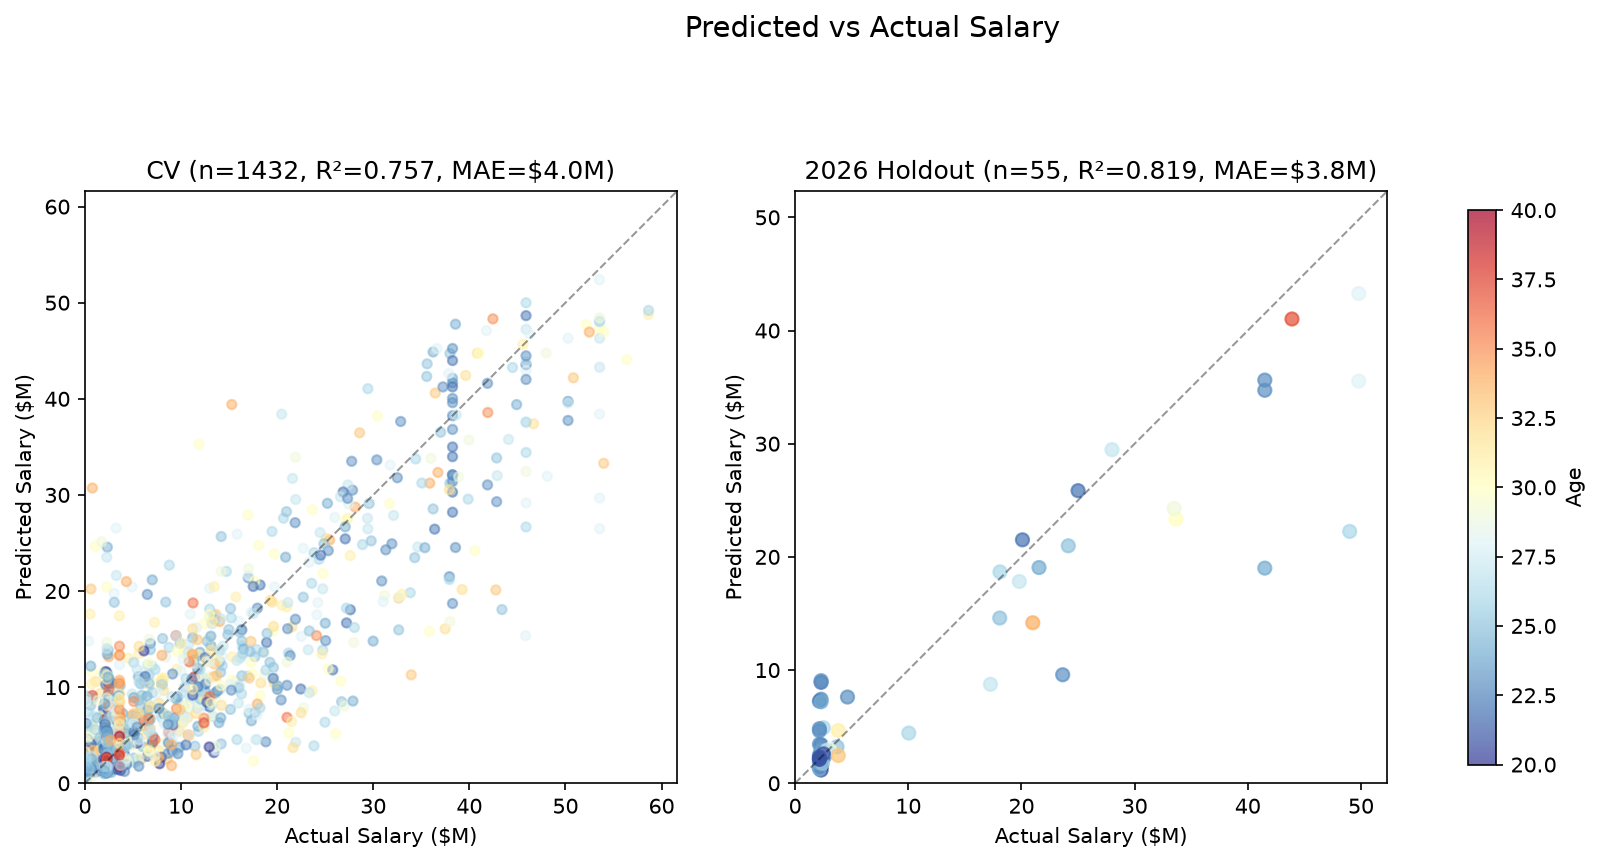
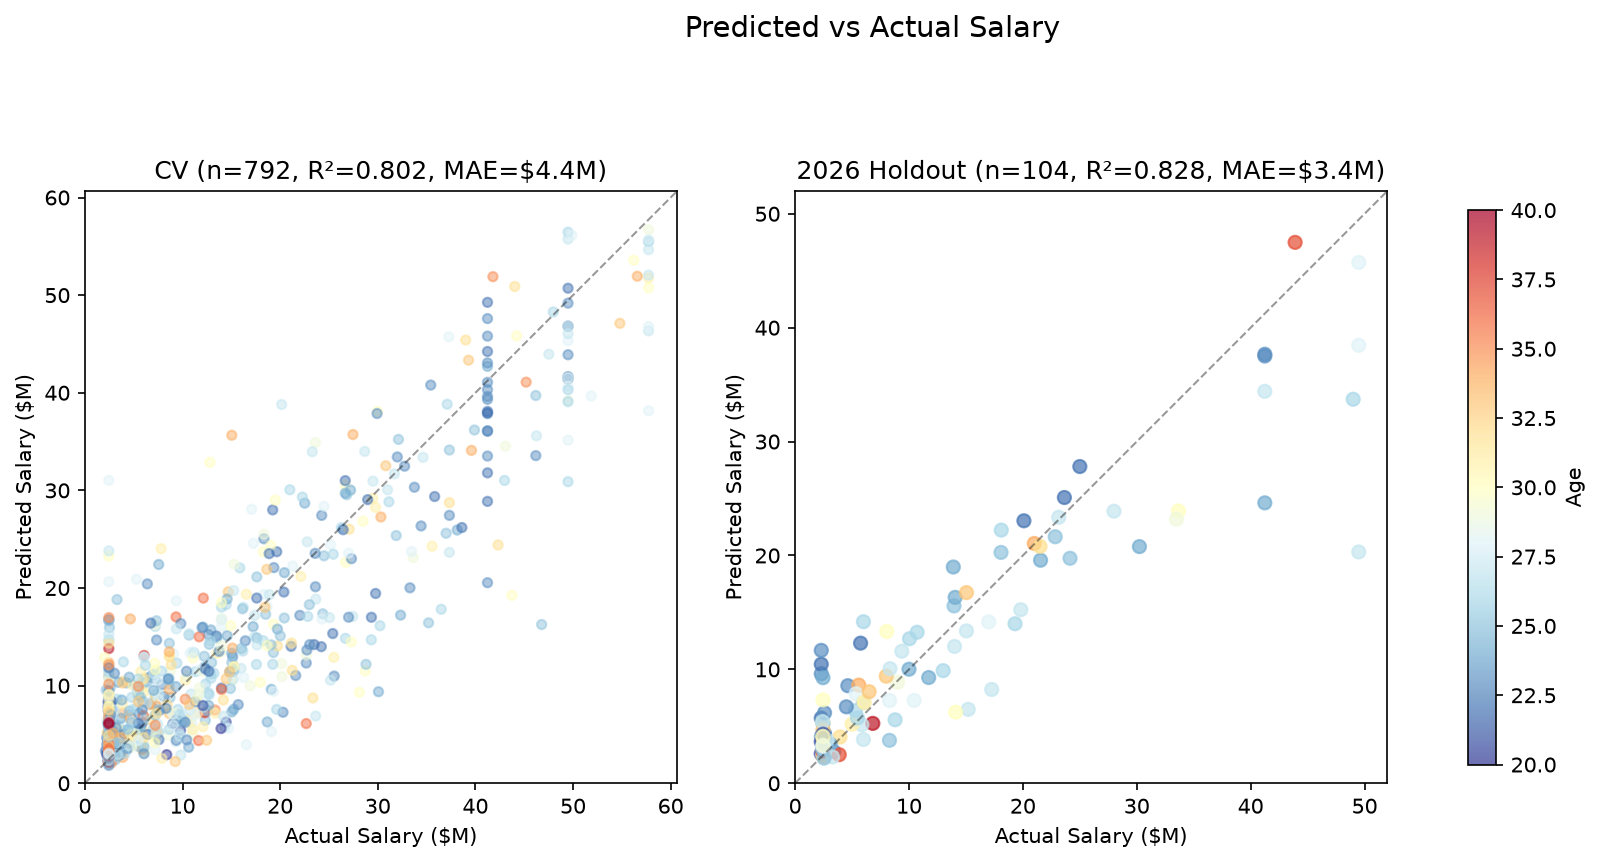
#20 zone-gate helpers + #36 Luol Deng stretched dead money
evaluate_suite: add abs_bias_growth() and zone_scorecard() shared helpers
  - abs_bias_growth uses |bias| form so shrinking toward zero is never a regression
  - zone_scorecard splits by confirmation/selection with abs_bias_growth metric

diagnostics: signing-type residuals now report both pooled and selection-only

eval_floor_branch: replace local zone_scorecard/abs_bias_growth with shared imports

salary_corrections: 4th stretched dead money case (Luol Deng 2019, LAL stretch
  while playing for MIN, salary_override to vet minimum $2,564,753)

ISSUES #36: updated from three to four rows, documented build_dataset.py gap

diff --git a/scripts/diagnostics.py b/scripts/diagnostics.py
@@ -24,6 +24,9 @@ from src.model.train import (
     _filter_mislabeled_year1, _filter_continuations, _filter_rookie_contracts,
     FEATURE_COLS, TARGET,
 )
+# NOTE: evaluate_suite imports attach_signing_labels from this module, so any
+# import from evaluate_suite must be deferred to avoid a circular import.
+# _in_confirmation_set is imported inside main() below.
 
 DIAG_DIR = OUTPUTS_DIR / "diagnostics"
 DIAG_DIR.mkdir(parents=True, exist_ok=True)
@@ -303,8 +306,12 @@ def _load_signing_type_labels(df):
     return attach_signing_labels(df, salary_dollars=sal)
 
 
-def residual_by_signing_type(df, y_true, y_pred):
-    """Slice residuals by Spotrac signing type (diagnostic label, not feature)."""
+def residual_by_signing_type(df, y_true, y_pred, is_confirmation=None):
+    """Slice residuals by Spotrac signing type (diagnostic label, not feature).
+
+    When is_confirmation is provided, prints both pooled (all rows, reporting)
+    and selection-only (decision-grade) readings -- ISSUES #20a.
+    """
     if "signing_cat" not in df.columns:
         print("\nNo signing_cat in data, skipping signing type residuals.")
         return
@@ -318,37 +325,48 @@ def residual_by_signing_type(df, y_true, y_pred):
 
     order = ["Bird Rights", "Sign & Trade", "Cap Space", "Early Bird",
              "MLE", "Non-Bird", "Minimum", "Rookie Scale", "Other", "Unknown"]
-    rows = []
-    for cat in order:
-        sub = df[df["signing_cat"] == cat]
-        if len(sub) < 3:
-            continue
-        bias = sub["residual"].mean()
-        mae = sub["residual"].abs().mean()
-        bias_d = sub["residual_dollar"].mean()
-        mae_d = sub["residual_dollar"].abs().mean()
-        rows.append({
-            "signing_type": cat,
-            "n": len(sub),
-            "mean_cap_pct": round(sub["actual"].mean(), 4),
-            "mean_pred": round(sub["pred"].mean(), 4),
-            "bias_pct": round(bias, 4),
-            "bias_$M": round(bias_d / 1e6, 2),
-            "MAE_pct": round(mae, 4),
-            "MAE_$M": round(mae_d / 1e6, 2),
-        })
 
-    result = pd.DataFrame(rows)
-    path = DIAG_DIR / "residual_by_signing_type.csv"
-    result.to_csv(path, index=False)
+    # ISSUES #20a: report both pooled (all rows) and selection-only readings.
+    # The selection-only numbers are decision-grade; the pooled ones are context.
+    splits = [("all", "reporting", None)]
+    if is_confirmation is not None:
+        sel_mask = ~np.asarray(is_confirmation, dtype=bool)
+        splits.append(("selection", "decision-grade", sel_mask))
 
-    print(f"\n=== Residual by Signing Type (OOF) ===")
-    print(f"{'Type':15s} {'N':>4s} {'Avg%':>7s} {'Pred%':>7s} {'Bias':>7s} {'Bias$M':>7s} {'MAE%':>7s} {'MAE$M':>7s}")
-    print("-" * 70)
-    for _, r in result.iterrows():
-        print(f"{r['signing_type']:15s} {r['n']:4d} {r['mean_cap_pct']:7.4f} {r['mean_pred']:7.4f} "
-              f"{r['bias_pct']:+7.4f} {r['bias_$M']:+7.1f} {r['MAE_pct']:7.4f} {r['MAE_$M']:7.1f}")
-    print(f"\nSaved: {path.name}")
+    for tag, label, mask in splits:
+        sub_df = df[mask] if mask is not None else df
+        rows = []
+        for cat in order:
+            sub = sub_df[sub_df["signing_cat"] == cat]
+            if len(sub) < 3:
+                continue
+            bias = sub["residual"].mean()
+            mae = sub["residual"].abs().mean()
+            bias_d = sub["residual_dollar"].mean()
+            mae_d = sub["residual_dollar"].abs().mean()
+            rows.append({
+                "signing_type": cat,
+                "n": len(sub),
+                "mean_cap_pct": round(sub["actual"].mean(), 4),
+                "mean_pred": round(sub["pred"].mean(), 4),
+                "bias_pct": round(bias, 4),
+                "bias_$M": round(bias_d / 1e6, 2),
+                "MAE_pct": round(mae, 4),
+                "MAE_$M": round(mae_d / 1e6, 2),
+            })
+
+        result = pd.DataFrame(rows)
+        suffix = f"_{tag}" if tag != "all" else ""
+        path = DIAG_DIR / f"residual_by_signing_type{suffix}.csv"
+        result.to_csv(path, index=False)
+
+        print(f"\n=== Residual by Signing Type (OOF) [{label}] ===")
+        print(f"{'Type':15s} {'N':>4s} {'Avg%':>7s} {'Pred%':>7s} {'Bias':>7s} {'Bias$M':>7s} {'MAE%':>7s} {'MAE$M':>7s}")
+        print("-" * 70)
+        for _, r in result.iterrows():
+            print(f"{r['signing_type']:15s} {r['n']:4d} {r['mean_cap_pct']:7.4f} {r['mean_pred']:7.4f} "
+                  f"{r['bias_pct']:+7.4f} {r['bias_$M']:+7.1f} {r['MAE_pct']:7.4f} {r['MAE_$M']:7.1f}")
+        print(f"\nSaved: {path.name}")
     return result
 
 
@@ -378,6 +396,12 @@ def main():
     df_full = _filter_mislabeled_year1(df_full)
     df_full = _filter_continuations(df_full)
     df_full = _filter_rookie_contracts(df_full)
+    # ISSUES #20a: mark the confirmation split so signing-type bias is reported
+    # separately for selection (decision-grade) and confirmation (canary) rows.
+    # Deferred import: evaluate_suite imports attach_signing_labels from this
+    # module, so the import must happen after both modules are fully loaded.
+    from src.model.evaluate_suite import _in_confirmation_set
+    df_full["is_confirmation"] = df_full["player_name_norm"].map(_in_confirmation_set)
     df_full = _load_signing_type_labels(df_full)
     avail = [f for f in FEATURES if f in df_full.columns]
     X_full = df_full[avail].fillna(df_full[avail].median()).fillna(0)
@@ -387,7 +411,8 @@ def main():
         m = XGBRegressor(**PARAMS)
         m.fit(X_full.iloc[tr_i], df_full[TARGET].values[tr_i])
         oof_pred[va_i] = m.predict(X_full.iloc[va_i])
-    residual_by_signing_type(df_full, df_full[TARGET].values, oof_pred)
+    residual_by_signing_type(df_full, df_full[TARGET].values, oof_pred,
+                             is_confirmation=df_full["is_confirmation"].values)
 
     print(f"\nAll diagnostics saved to {DIAG_DIR}")
 

diff --git a/src/model/evaluate_suite.py b/src/model/evaluate_suite.py
@@ -400,6 +400,52 @@ def paired_delta(fold_r2_a: np.ndarray, fold_r2_b: np.ndarray) -> dict:
             "per_fold": [round(v, 5) for v in per_fold]}
 
 
+def abs_bias_growth(bias_cand: float, bias_champ: float) -> float:
+    """ISSUES #20c: |bias| growth = |bias_cand| - |bias_champ|.
+
+    A bias moving toward zero is an improvement, not a regression. The signed
+    form (bias_cand - bias_champ) disagrees whenever a segment's bias shrinks
+    -- e.g. Bird Rights going -$2.44M -> -$2.03M reads as +$0.41M signed but
+    only +$0.026M in |bias| growth.
+    """
+    return abs(bias_cand) - abs(bias_champ)
+
+
+def zone_scorecard(df, pred_champ, pred_cand, zone_mask, sel_mask=None):
+    """Zone MAE/bias split by the confirmation lock (ISSUES #20a).
+
+    Returns a dict of up to three readings:
+      all  -- every zone row (reporting)
+      sel  -- selection-pool rows only (the number that decides)
+      conf -- confirmation rows (canary, never decides)
+    When sel_mask is None, returns only 'all'.
+
+    The bias-growth metric uses the ISSUES #20c definition (|bias| growth),
+    so a bias shrinking toward zero is never scored as a regression.
+    """
+    out = {}
+    slices = [("all", zone_mask)]
+    if sel_mask is not None:
+        slices += [("sel", zone_mask & sel_mask),
+                   ("conf", zone_mask & ~sel_mask)]
+    for tag, m in slices:
+        if hasattr(m, "values"):
+            m = m.values
+        if m.sum() == 0:
+            continue
+        mae_c, bias_c = _dollars(df, pred_champ, m)
+        mae_d, bias_d = _dollars(df, pred_cand, m)
+        out[tag] = {
+            "n": int(m.sum()),
+            "champ_mae": mae_c, "cand_mae": mae_d,
+            "win": mae_c - mae_d,
+            "champ_bias": bias_c, "cand_bias": bias_d,
+            "signed_bias_change": bias_d - bias_c,
+            "abs_bias_growth": abs_bias_growth(bias_d, bias_c),
+        }
+    return out
+
+
 # ---------------------------------------------------------------------------
 # Layers
 # ---------------------------------------------------------------------------

diff --git a/scripts/eval_floor_branch.py b/scripts/eval_floor_branch.py
@@ -85,7 +85,7 @@ from config import OUTPUTS_DIR
 from src.model.train import FEATURE_COLS
 from src.model.evaluate_suite import (
     load_evaluation_frame, paired_delta, _dollars, N_SPLITS, DEFAULT_SEEDS,
-    TARGET, FORWARD_ORIGINS,
+    TARGET, FORWARD_ORIGINS, abs_bias_growth, zone_scorecard,
 )
 from src.model import route_mixture as rm
 from src.model.extension_cap import attach_extension_cap
@@ -220,19 +220,6 @@ def class_diagnostics(p, true, tag):
             "calibration": cal}
 
 
-def zone_scorecard(df, champ, cand, mask, sel):
-    """Floor-zone MAE/bias, split by the confirmation lock (ISSUES #20a)."""
-    out = {}
-    for tag, m in (("all", mask), ("sel", mask & sel), ("conf", mask & ~sel)):
-        if m.sum() == 0:
-            continue
-        mae_c, bias_c = _dollars(df, champ, m)
-        mae_d, bias_d = _dollars(df, cand, m)
-        out[tag] = {"n": int(m.sum()), "champ_mae": mae_c, "cand_mae": mae_d,
-                    "win": mae_c - mae_d, "champ_bias": bias_c, "cand_bias": bias_d}
-    return out
-
-
 def c2_segments(df, champ, cand):
     segs = {}
     for cat, sub in df.groupby("signing_cat"):
@@ -243,7 +230,7 @@ def c2_segments(df, champ, cand):
         _, b_d = _dollars(df, cand, m)
         segs[str(cat)] = {"n": int(m.sum()), "champ": b_c, "cand": b_d,
                           "signed_change": b_d - b_c,
-                          "abs_bias_growth": abs(b_d) - abs(b_c)}
+                          "abs_bias_growth": abs_bias_growth(b_d, b_c)}
     return segs
 
 
@@ -256,7 +243,7 @@ def brakes(df, champ, cand, at_floor):
         mae_d, b_d = _dollars(df, cand, m)
         out[tag] = {"n": int(m.sum()), "champ_bias": b_c, "cand_bias": b_d,
                     "signed_change": b_d - b_c,
-                    "abs_bias_growth": abs(b_d) - abs(b_c),
+                    "abs_bias_growth": abs_bias_growth(b_d, b_c),
                     "mae_change": mae_d - mae_c}
     return out
 

diff --git a/ISSUES.md b/ISSUES.md
@@ -545,7 +545,7 @@ season, not by fold.
 **Fixed when**: `evaluate_suite` (or a shared helper) exposes a fixed-fold
 common-row comparison, and the bridge recipe in `worker-brief.md` points to it.
 
-## 36. Three training rows carry a waiving team's stretched dead money as salary
+## 36. Four training rows carry a waiving team's stretched dead money as salary
 
 **Severity**: medium — fabricated observations of the TARGET on waived players.
 
@@ -560,20 +560,42 @@ actually signed with another team is ignored.
 | bradley beal 2025 | $19,383,010 | PHX stretch: 5 x $19.38M | LAC 2yr/$10.98M (AAV $5.49M) |
 | joakim noah 2020 | $6,431,667 | NYK stretch: 3 x $6.43M | LAC minimum 2yr/$2.98M |
 | nicolas batum 2020 | $8,856,969 | CHA dead money, repeats 2020-21 | LAC 1yr/$2.56M |
+| luol deng 2019 | $5,000,000 | LAL stretch: 3 x $5M | MIN 1yr vet minimum |
 
 Beal's five identical $19,383,010 entries from 2025-2029 (no CBA raises = stretch
 annuity) and Noah's attribution to NYK for a season he played on the Clippers
-establish the mechanism unambiguously.
+establish the mechanism unambiguously. Deng's $5M under LAL while he played 22
+games for MIN (confirmed in both advanced_stats.csv and impact_metrics.csv) is
+the same pattern; his row escapes `audit_stretched_salaries.py` because he has
+no Spotrac page (no AAV to trigger the ratio check).
 
-**Reproduce**: `python scripts/audit_stretched_salaries.py`
+All four corrections are in `salary_corrections.csv` as `salary_override` entries.
+Beal and Batum are `verified` (Spotrac-sourced); Noah and Deng are `inferred`
+(10+ year vet minimum for their respective seasons, no Spotrac page).
 
-**What to do**: source the actual signed salary from Spotrac and replace the
-stretched obligation. `contract_structure_v2.csv` also needs correction — Beal's
-flat five-year stretch schedule was read as a new five-year contract, which is why
-the row reaches the evaluation frame at all.
+**Reproduce**: `python scripts/audit_stretched_salaries.py` catches the three
+with Spotrac data. Deng requires the team-mismatch check: his salaries.csv team
+is LAL while his impact_metrics team_abbreviation is MIN.
+
+**What to do**: `salary_override` corrections are written and applied at
+`load_training_data()` time in `train.py`. Two residual items:
+
+1. `build_dataset.py` does NOT apply `salary_override` at build time — only
+   `min_cap_charge`. The `train.py` comment says "Both are also applied at build
+   time" but that is currently incorrect for `salary_override`. The correction
+   works because `load_training_data()` applies it at load time, but the
+   persisted `training_data_v2.csv` still carries the wrong salary until
+   `build_dataset.py` is updated or a rebuild is run after adding the
+   application code there.
+2. `contract_structure_v2.csv` carries incorrect entries for all four players
+   (the stretch annuity read as a contract): Beal shows 5yr, Noah 2yr, Batum
+   2yr, Deng 3yr. These cannot be corrected in-place (the file is never
+   recomputed, only extended), but a correction layer or override mechanism is
+   needed for the `year_in_contract` and `contract_years` fields.
 
 **Fixed when**: `audit_stretched_salaries.py` exits 0 (no stretch-class rows),
-and the three rows carry the salary the player actually signed for.
+all four rows carry the salary the player actually signed for, and the
+`build_dataset.py` gap is closed.
 
 ## 37. A prorated partial-season row sits just above the 1.2% floor and reaches the frame
 
